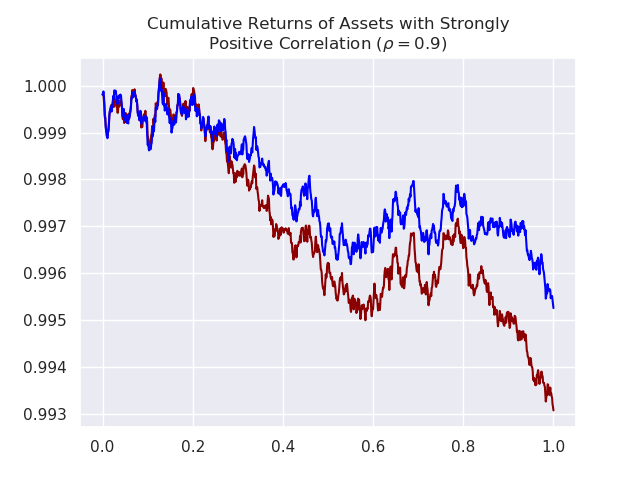
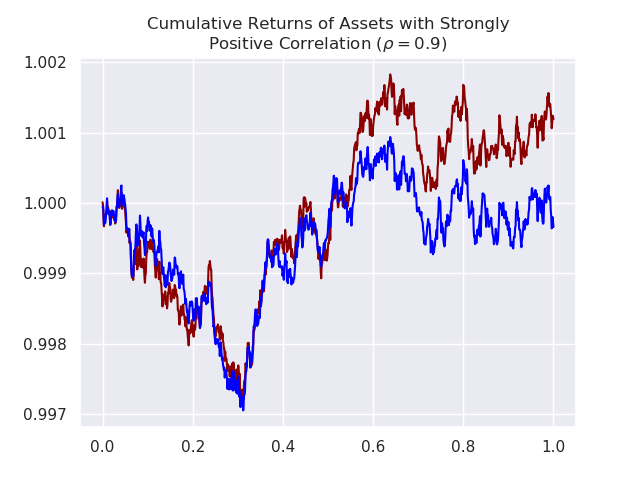
Included dynamic covariance plot example amongst other extensions.

diff --git a/CovRegpy_CASE_STUDY_Indices_portfolios_correlation_plot.py b/CovRegpy_CASE_STUDY_Indices_portfolios_correlation_plot.py
@@ -112,6 +112,112 @@ for var_day in range(1826):
                                    np.matmul(x[:, var_day].T,
                                              B_est_direct).astype(np.float64).reshape(1, -1)).astype(np.float64)
 
+x, y = np.meshgrid(np.arange(11), np.arange(11))
+
+ax = plt.subplot(111)
+plt.title('Forecast Covariance at Start of Period 1')
+plt.pcolormesh(x, y, variance_Model_forecast_direct[639, :, :], cmap='gist_rainbow')
+plt.xticks(np.arange(11), [textwrap.fill(col, 15) for col in sector_11_indices.columns], fontsize=8, rotation='45')
+plt.yticks(np.arange(11), [textwrap.fill(col, 15) for col in sector_11_indices.columns], fontsize=8)
+plt.colorbar()
+box_0 = ax.get_position()
+ax.set_position([box_0.x0 + 0.05, box_0.y0 + 0.075, box_0.width * 0.9, box_0.height * 0.9])
+plt.savefig('figures/forecast_start_1.png')
+plt.show()
+ax = plt.subplot(111)
+plt.title('Forecast Covariance at End of Period 1')
+plt.pcolormesh(x, y, variance_Model_forecast_direct[721, :, :], cmap='gist_rainbow')
+plt.xticks(np.arange(11), [textwrap.fill(col, 15) for col in sector_11_indices.columns], fontsize=8, rotation='45')
+plt.yticks(np.arange(11), [textwrap.fill(col, 15) for col in sector_11_indices.columns], fontsize=8)
+plt.colorbar()
+box_0 = ax.get_position()
+ax.set_position([box_0.x0 + 0.05, box_0.y0 + 0.075, box_0.width * 0.9, box_0.height * 0.9])
+plt.savefig('figures/forecast_end_1.png')
+plt.show()
+ax = plt.subplot(111)
+plt.title('Forecast Covariance at Start of Period 2')
+plt.pcolormesh(x, y, variance_Model_forecast_direct[1143, :, :], cmap='gist_rainbow')
+plt.xticks(np.arange(11), [textwrap.fill(col, 15) for col in sector_11_indices.columns], fontsize=8, rotation='45')
+plt.yticks(np.arange(11), [textwrap.fill(col, 15) for col in sector_11_indices.columns], fontsize=8)
+plt.colorbar()
+box_0 = ax.get_position()
+ax.set_position([box_0.x0 + 0.05, box_0.y0 + 0.075, box_0.width * 0.9, box_0.height * 0.9])
+plt.savefig('figures/forecast_start_2.png')
+plt.show()
+ax = plt.subplot(111)
+plt.title('Forecast Covariance at End of Period 2')
+plt.pcolormesh(x, y, variance_Model_forecast_direct[1176, :, :], cmap='gist_rainbow')
+plt.xticks(np.arange(11), [textwrap.fill(col, 15) for col in sector_11_indices.columns], fontsize=8, rotation='45')
+plt.yticks(np.arange(11), [textwrap.fill(col, 15) for col in sector_11_indices.columns], fontsize=8)
+plt.colorbar()
+box_0 = ax.get_position()
+ax.set_position([box_0.x0 + 0.05, box_0.y0 + 0.075, box_0.width * 0.9, box_0.height * 0.9])
+plt.savefig('figures/forecast_end_2.png')
+plt.show()
+
+window_1 = 80
+window_2 = 30
+ax = plt.subplot(111)
+plt.title('Realised Covariance at Start of Period 1')
+plt.pcolormesh(x, y, np.cov(price_signal[int(639 - window_1):639, :].T), cmap='gist_rainbow')
+plt.xticks(np.arange(11), [textwrap.fill(col, 15) for col in sector_11_indices.columns], fontsize=8, rotation='45')
+plt.yticks(np.arange(11), [textwrap.fill(col, 15) for col in sector_11_indices.columns], fontsize=8)
+plt.colorbar()
+box_0 = ax.get_position()
+ax.set_position([box_0.x0 + 0.05, box_0.y0 + 0.075, box_0.width * 0.9, box_0.height * 0.9])
+plt.savefig('figures/realised_start_1.png')
+plt.show()
+ax = plt.subplot(111)
+plt.title('Realised Covariance at End of Period 1')
+plt.pcolormesh(x, y, np.cov(price_signal[int(721 - window_1):721, :].T), cmap='gist_rainbow')
+plt.xticks(np.arange(11), [textwrap.fill(col, 15) for col in sector_11_indices.columns], fontsize=8, rotation='45')
+plt.yticks(np.arange(11), [textwrap.fill(col, 15) for col in sector_11_indices.columns], fontsize=8)
+plt.colorbar()
+box_0 = ax.get_position()
+ax.set_position([box_0.x0 + 0.05, box_0.y0 + 0.075, box_0.width * 0.9, box_0.height * 0.9])
+plt.savefig('figures/realised_end_1.png')
+plt.show()
+ax = plt.subplot(111)
+plt.title('Realised Covariance After Recession of Period 1')
+plt.pcolormesh(x, y, np.cov(price_signal[721:int(721 + window_1), :].T), cmap='gist_rainbow')
+plt.xticks(np.arange(11), [textwrap.fill(col, 15) for col in sector_11_indices.columns], fontsize=8, rotation='45')
+plt.yticks(np.arange(11), [textwrap.fill(col, 15) for col in sector_11_indices.columns], fontsize=8)
+plt.colorbar()
+box_0 = ax.get_position()
+ax.set_position([box_0.x0 + 0.05, box_0.y0 + 0.075, box_0.width * 0.9, box_0.height * 0.9])
+plt.savefig('figures/realised_after_1.png')
+plt.show()
+ax = plt.subplot(111)
+plt.title('Realised Covariance at Start of Period 2')
+plt.pcolormesh(x, y, np.cov(price_signal[int(1143 - window_2):1143, :].T), cmap='gist_rainbow')
+plt.xticks(np.arange(11), [textwrap.fill(col, 15) for col in sector_11_indices.columns], fontsize=8, rotation='45')
+plt.yticks(np.arange(11), [textwrap.fill(col, 15) for col in sector_11_indices.columns], fontsize=8)
+plt.colorbar()
+box_0 = ax.get_position()
+ax.set_position([box_0.x0 + 0.05, box_0.y0 + 0.075, box_0.width * 0.9, box_0.height * 0.9])
+plt.savefig('figures/realised_start_2.png')
+plt.show()
+ax = plt.subplot(111)
+plt.title('Realised Covariance at End of Period 2')
+plt.pcolormesh(x, y, np.cov(price_signal[int(1176 - window_2):1176, :].T), cmap='gist_rainbow')
+plt.xticks(np.arange(11), [textwrap.fill(col, 15) for col in sector_11_indices.columns], fontsize=8, rotation='45')
+plt.yticks(np.arange(11), [textwrap.fill(col, 15) for col in sector_11_indices.columns], fontsize=8)
+plt.colorbar()
+box_0 = ax.get_position()
+ax.set_position([box_0.x0 + 0.05, box_0.y0 + 0.075, box_0.width * 0.9, box_0.height * 0.9])
+plt.savefig('figures/realised_end_2.png')
+plt.show()
+ax = plt.subplot(111)
+plt.title('Realised Covariance After Recession of Period 2')
+plt.pcolormesh(x, y, np.cov(price_signal[1176:int(1176 + window_2), :].T), cmap='gist_rainbow')
+plt.xticks(np.arange(11), [textwrap.fill(col, 15) for col in sector_11_indices.columns], fontsize=8, rotation='45')
+plt.yticks(np.arange(11), [textwrap.fill(col, 15) for col in sector_11_indices.columns], fontsize=8)
+plt.colorbar()
+box_0 = ax.get_position()
+ax.set_position([box_0.x0 + 0.05, box_0.y0 + 0.075, box_0.width * 0.9, box_0.height * 0.9])
+plt.savefig('figures/realised_after_2.png')
+plt.show()
+
 for col, sector in enumerate(sector_11_indices.columns):
     if col != 3:
         if col == 0 or col == 1 or col == 2 or col == 7:

diff --git a/CovRegpy_SSD.py b/CovRegpy_SSD.py
@@ -398,7 +398,7 @@ def CovRegpy_ssd(time_series, initial_trend_ratio=3, nmse_threshold=0.01, plot=F
             plt.plot(f * dt, gaus_2, '--', label=r'$g_2(f) = A_2^{(0)}e^{\frac{(f-\mu_2)^2}{\sigma^{(0)2}_2}}$', Linewidth=2)
             plt.plot(f * dt, gaus_3, '--', label=r'$g_3(f) = A_3^{(0)}e^{\frac{(f-\mu_3)^2}{\sigma^{(0)2}_3}}$', Linewidth=2)
             plt.plot(f * dt, gaus_1 + gaus_2 + gaus_3, '--',
-                     label=r'$\sum_{i=1}^{3}A_i^{(0)}e^{\frac{(f-\mu_i)^2}{\sigma^{(0)2}_i}}$', Linewidth=2)
+                     label=r'$\sum_{i=1}^{3}g_i(f)$', Linewidth=2)
             plt.plot(mu_1 * np.ones(100), np.linspace(np.min(s), 1.1 * np.max(s), 100), '--', label=r'$\mu_1$')
             plt.plot(mu_2 * np.ones(100), np.linspace(np.min(s), 1.1 * np.max(s), 100), '--', label=r'$\mu_2$')
             plt.plot(mu_3 * np.ones(100), np.linspace(np.min(s), 1.1 * np.max(s), 100), '--', label=r'$\mu_3$')
@@ -419,7 +419,7 @@ def CovRegpy_ssd(time_series, initial_trend_ratio=3, nmse_threshold=0.01, plot=F
             plt.plot(f * dt, gaussian(f * dt, thetas[0], mu_1, thetas[3]) +
                      gaussian(f * dt, thetas[1], mu_2, thetas[4]) +
                      gaussian(f * dt, thetas[2], mu_3, thetas[5]), '--',
-                     label=r'$\sum_{i=1}^{3}A_i^{opt}e^{\frac{(f-\mu_i)^2}{\sigma^{opt2}_i}}$', Linewidth=2)
+                     label=r'$\sum_{i=1}^{3}g^{opt}_i(f)$', Linewidth=2)
             plt.plot(f_range[0] * np.ones(101), np.linspace(0, 1.1 * 2 * A_1, 101), 'k--')
             plt.plot(f_range[1] * np.ones(101), np.linspace(0, 1.1 * 2 * A_1, 101), 'k--', label='Frequency bounds')
             plt.legend(loc='best', fontsize=8)

diff --git a/CovRegpy_covariance_plot.py b/CovRegpy_covariance_plot.py
@@ -1,0 +1,42 @@
+
+import numpy as np
+import matplotlib.pyplot as plt
+import seaborn as sns
+from mpl_toolkits.mplot3d import Axes3D
+
+sns.set_style('darkgrid')
+
+x = np.linspace(1, 10, 10)
+y = np.linspace(1, 10, 10)
+Z, Y = np.meshgrid(x, y)
+X = np.random.uniform(0, 1, np.shape(Z))
+
+temp_1 = np.random.normal(0, 1, (10, 10))
+temp_2 = np.random.normal(0, 1, (10, 10))
+temp_3 = np.random.normal(0, 1, (10, 10))
+temp_1 = np.corrcoef(temp_1)
+temp_2 = np.corrcoef(temp_2)
+temp_3 = np.corrcoef(temp_3)
+
+fig = plt.figure()
+fig.set_size_inches(8, 10)
+ax = plt.axes(projection='3d')
+ax.set_title('Correlation Structure Through Time')
+cov_plot = ax.plot_surface(Z, Y, temp_1, rstride=1, cstride=1, cmap='gist_rainbow', edgecolor='none')
+ax.plot_surface(Z, Y, temp_2 + 40, rstride=1, cstride=1, cmap='gist_rainbow', edgecolor='none')
+ax.plot_surface(Z, Y, temp_3 + 80, rstride=1, cstride=1, cmap='gist_rainbow', edgecolor='none')
+# ax.set_xlabel('Asset')
+ax.set_xticks(ticks=[0, 1, 2, 3, 4, 5, 6, 7, 8, 9])
+ax.set_xticklabels(labels=['BTC', 'ETH', 'BNB', 'ADA', 'XRP', 'DOGE', 'DOT', 'UNI', 'LINK', 'SOL'], rotation=20,
+                   fontsize=8, ha="left", rotation_mode="anchor")
+# ax.set_zlim(0, 10)
+# ax.set_ylabel('Asset')
+ax.set_yticks(ticks=[0, 1, 2, 3, 4, 5, 6, 7, 8, 9])
+ax.set_yticklabels(labels=['BTC', 'ETH', 'BNB', 'ADA', 'XRP', 'DOGE', 'DOT', 'UNI', 'LINK', 'SOL'], rotation=0,
+                   fontsize=8)
+ax.set_zticks(ticks=[0, 40, 80])
+ax.set_zticklabels(['01-10-2020', '02-10-2020', '03-10-2020'], rotation=-60, fontsize=8)
+cbar = plt.colorbar(cov_plot)
+cbar.set_label("Covariance")
+plt.savefig('figures/covariance_example.png')
+plt.show()

diff --git a/CovRegpy_CASE_STUDY_covariance.py b/CovRegpy_CASE_STUDY_covariance.py
@@ -16,6 +16,29 @@ label.append('No')
 label.append('Mildly Negative')
 label.append('Strongly Negative')
 
+
+np.random.seed(0)
+corr = 0.5
+points_asset = 304
+time_asset = np.arange(304)
+
+L = np.linalg.cholesky(np.array([[1, corr], [corr, 1]]))
+time_series = np.random.normal(0, 1, (2, points_asset)) * 0.0001
+time_series[:, 0] = 0
+time_series = np.matmul(L, time_series)
+plt.title(textwrap.fill(r'Cumulative Returns of Assets with Positive Correlation ($\rho = {}$)'.format(corr), 45))
+plt.plot(time_asset, -np.exp(np.cumsum(time_series[0, :])) + 2, c='darkred')
+plt.plot(time_asset, -np.exp(np.cumsum(time_series[1, :])) + 2, c='blue')
+plt.plot(int(points_asset - 1) * np.ones(101), -np.linspace(0.996, 1.002, 101) + 2, 'k--')
+plt.plot(395 * np.ones(101), -np.linspace(0.996, 1.002, 101) + 2, 'k--')
+plt.fill(np.append(np.linspace(int(points_asset - 1), 395, 101), np.linspace(395, int(points_asset - 1), 101)),
+         -np.append(0.996 * np.ones(101), 1.002 * np.ones(101)) + 2, c='lightcyan')
+plt.text(338, 1.0009, '?', fontsize=32)
+plt.savefig('/home/cole/Desktop/Cole/Cole Documents/CovRegpy/CovRegpy/figures/covariance_demonstration/corr_asset')
+plt.ylabel('Cumulative Returns')
+plt.xlabel('Days')
+plt.show()
+
 i = 0
 for corr in [0.9, 0.5, 0, -0.5, -0.9]:
     L = np.linalg.cholesky(np.array([[1, corr], [corr, 1]]))

diff --git a/CovRegpy_CASE_STUDY_forecasting.py b/CovRegpy_CASE_STUDY_forecasting.py
@@ -51,6 +51,29 @@ ax.set_xlim(-0.25 * np.pi, 6.25 * np.pi)
 plt.savefig('aas_figures/forecasting_time_series.png')
 plt.show()
 
+np.random.seed(3)
+
+edge = 304
+
+time_asset = np.arange(edge)
+time_extended_asset = np.arange(int(edge - 1), 395)[1:]
+returns = np.random.normal(0.0001, 0.001, edge)
+returns[0] = 0
+time_series_asset = (np.cumprod([np.exp(returns)]) - 1) * (0.03 / 0.04) + 1
+
+ax = plt.subplot(111)
+plt.title(textwrap.fill('Forecasting Financial Instruments', 40), fontsize=16)
+plt.plot(time_asset, time_series_asset)
+plt.plot(int(edge - 1) * np.ones(101), np.linspace(1.02, 1.04, 101), 'k--')
+plt.plot(395 * np.ones(101), np.linspace(1.02, 1.04, 101), 'k--')
+plt.fill(np.append(np.linspace(int(edge - 1), 395, 101), np.linspace(395, int(edge - 1), 101)),
+         np.append(1.02 * np.ones(101), 1.04 * np.ones(101)), c='lightcyan')
+plt.text(339, 1.028, '?', fontsize=32)
+plt.ylabel('Cumulative Returns')
+plt.xlabel('Days')
+plt.savefig('aas_figures/forecasting_asset.png')
+plt.show()
+
 ax = plt.subplot(111)
 plt.gcf().subplots_adjust(bottom=0.15)
 for i in range(14):
